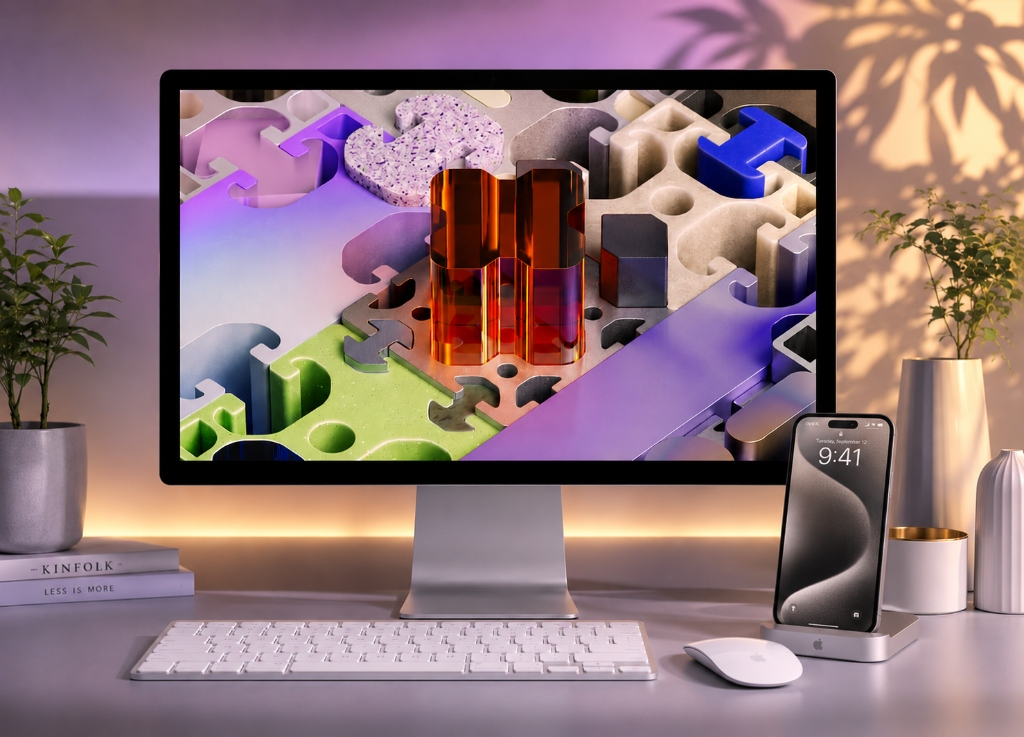
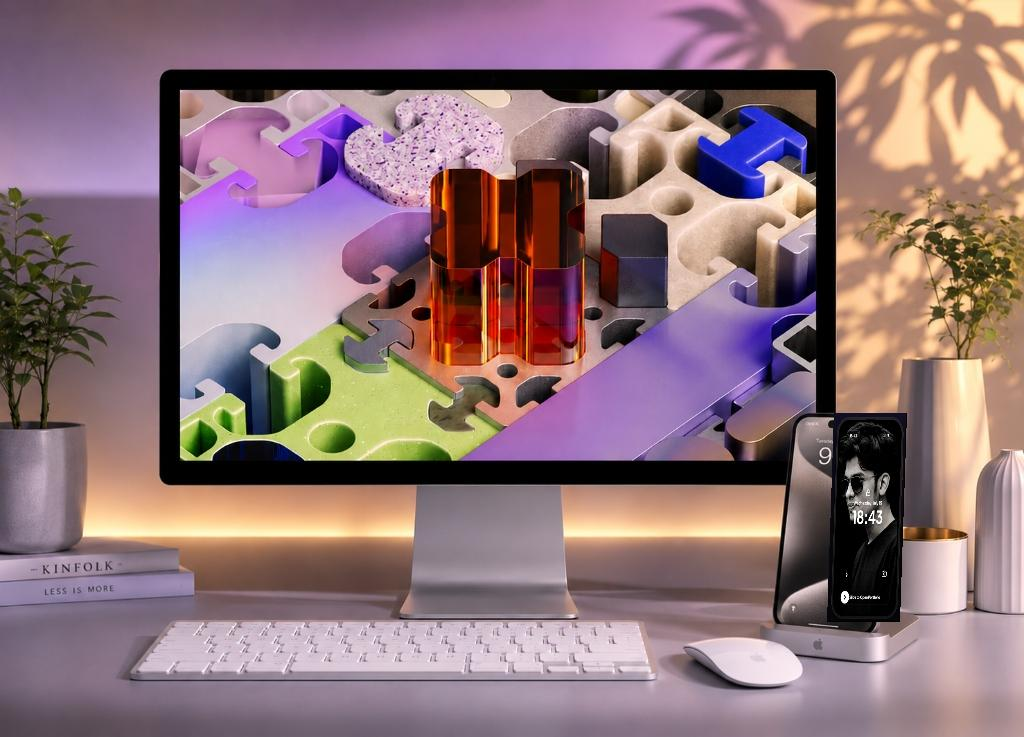
Scale interactive Mac mockup iframe to fit desktop layout and bake portrait wallpaper onto static desk mockup iPhone

Changed region(s): [[0.7812, 0.5617, 0.9062, 0.8426]]

diff --git a/script.js b/script.js
@@ -951,6 +951,30 @@ document.addEventListener('DOMContentLoaded', () => {
         iframe.style.left = offsetLeft.toFixed(1) + 'px';
         iframe.style.top = offsetTop.toFixed(1) + 'px';
       });
+
+      // Scale Mac Studio Display screen iframe
+      const macContainer = document.querySelector('.mac-screen-container');
+      if (macContainer) {
+        const iframe = macContainer.querySelector('.mac-screen-iframe');
+        if (iframe) {
+          const containerW = macContainer.clientWidth;
+          const containerH = macContainer.clientHeight;
+          if (containerW > 0 && containerH > 0) {
+            // Render natively at widescreen desktop width (1280px)
+            const baseW = 1280;
+            const baseH = Math.round(baseW * (containerH / containerW)) || 745;
+            const scale = containerW / baseW;
+
+            iframe.style.width = baseW + 'px';
+            iframe.style.height = baseH + 'px';
+            iframe.style.transform = `scale(${scale.toFixed(4)})`;
+            iframe.style.transformOrigin = 'top left';
+            iframe.style.position = 'absolute';
+            iframe.style.left = '0';
+            iframe.style.top = '0';
+          }
+        }
+      }
     }
 
     // Run scaling on load, resize, and orientation change

diff --git a/style.css b/style.css
@@ -3156,15 +3156,23 @@ body.light-theme .phone-screen-iframe {
   overflow: hidden;
 }
 
-.mac-screen-iframe {
+.mac-screen-container {
   position: absolute;
   left: 17.578%;
   top: 12.212%;
   width: 62.207%;
   height: 50.339%;
+  z-index: 2;
+  overflow: hidden;
+  background: transparent;
+}
+
+.mac-screen-iframe {
+  position: absolute;
+  left: 0;
+  top: 0;
   border: none;
   background: transparent;
-  z-index: 2;
   pointer-events: auto; /* Allow users to click and interact with the live app */
   transition: opacity 0.3s ease;
 }

diff --git a/index.html b/index.html
@@ -676,7 +676,9 @@
         <div class="project-card">
           <div class="project-image-wrapper project-mac-interactive">
             <img src="assets/project-banking.jpg" alt="Banking Dashboard" class="project-img">
-            <iframe class="mac-screen-iframe" src="about:blank" data-src="https://banking-dashboard-8e5j.vercel.app/" loading="lazy"></iframe>
+            <div class="mac-screen-container">
+              <iframe class="mac-screen-iframe" src="about:blank" data-src="https://banking-dashboard-8e5j.vercel.app/" loading="lazy"></iframe>
+            </div>
           </div>
           <div class="project-content">
             <span class="project-category">Dashboard</span>